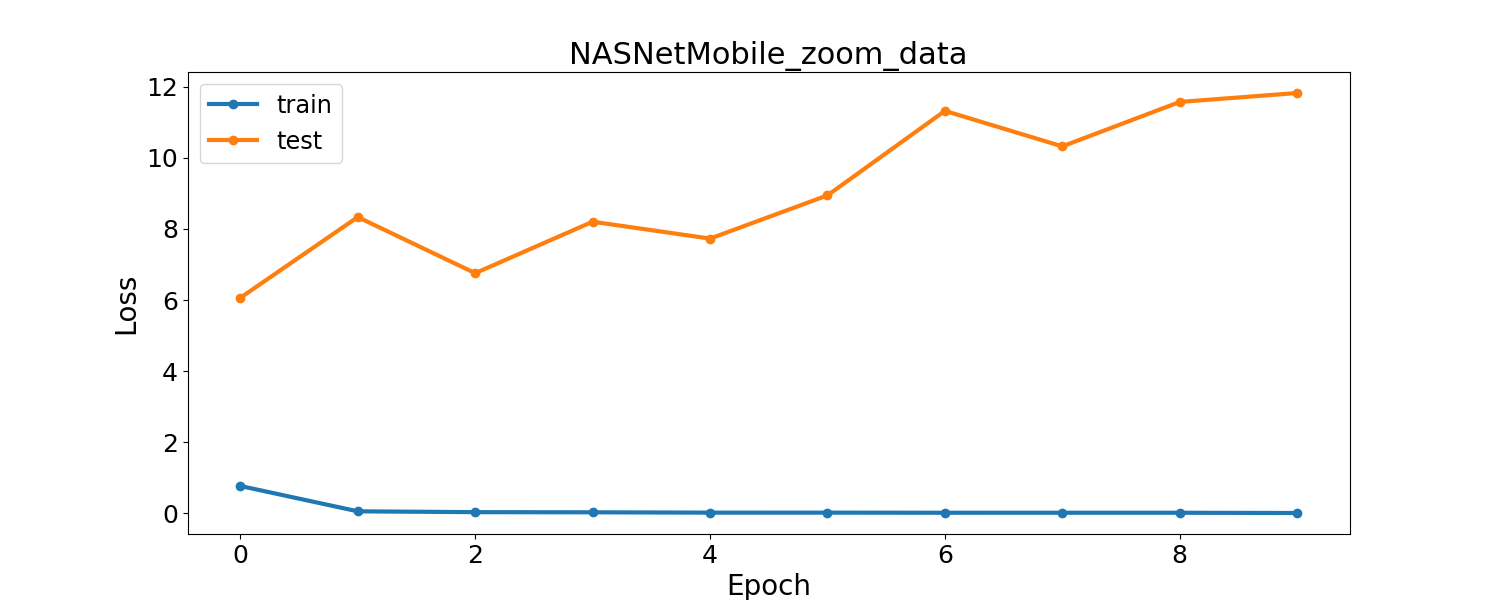
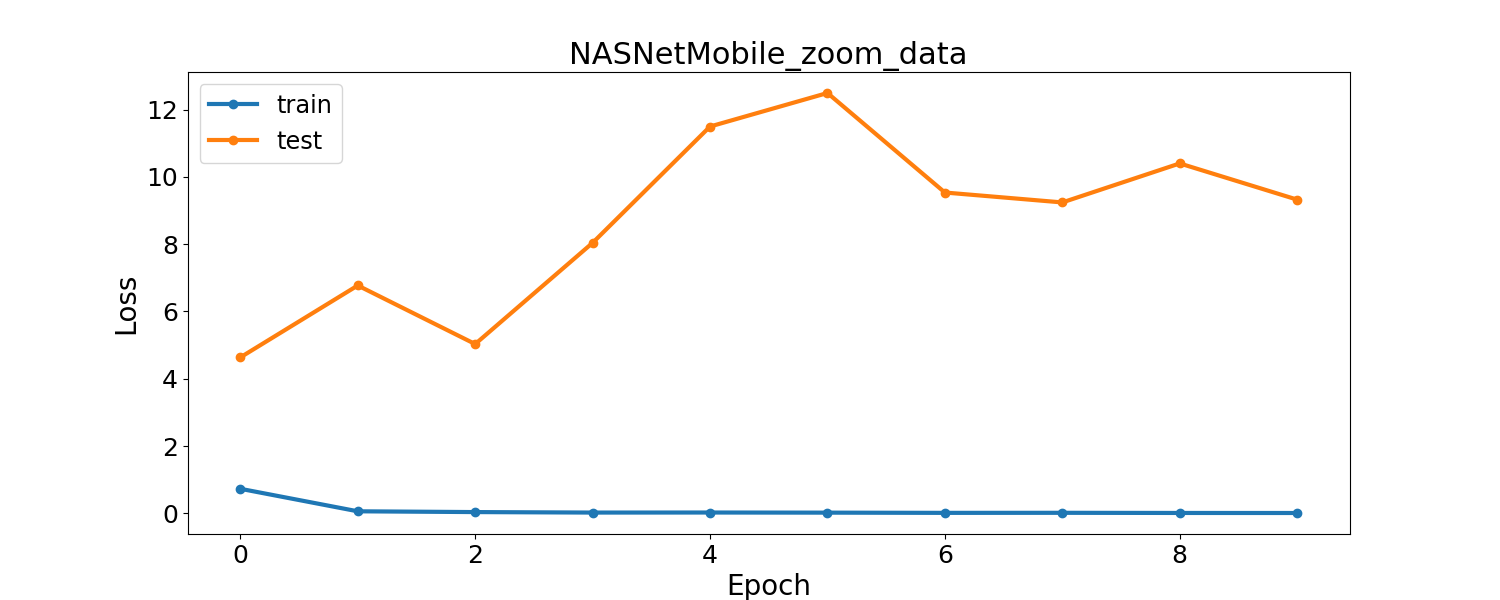
Update report

diff --git a/lab5/readme.md b/lab5/readme.md
@@ -104,8 +104,8 @@ num_epochs = 10
 
 |                 Model name                  | Test accuracy | Test loss | Train accuracy | Train loss | Time_train (s) |
 | :------------------------------------------ | :-----------: | :-------: | :------------: | :--------: | :------------: |
-| NASNetMobile                                |    0.3606     |   9.435   |     0.3812     |   9.0008   |   1682.9806    |
-| NASNetMobile_zoom_data                      |    0.2371     |  11.8239  |     0.266      |  11.4953   |   10204.6502   |
+| NASNetMobile                                |    0.2848     |   10.435  |     0.9809     |   0.0613   |   1682.9806    |
+| NASNetMobile_zoom_data                      |    0.3943     |  9.3234   |     0.9963      |  0.0125   |   10204.6502   |
 
 |                            Loss                             |
 | :---------------------------------------------------------- |
@@ -131,7 +131,7 @@ num_epochs = 10
 
 |                 Model name                  | Test accuracy | Test loss | Train accuracy | Train loss | Time_train (s) |
 | :------------------------------------------ | :-----------: | :-------: | :------------: | :--------: | :------------: |
-| base_NASNetMobile_with_classifier           |    0.0371     |  4.5505   |     0.0461     |   4.8162   |    234.5792    |
+| base_NASNetMobile_with_classifier           |    0.0371     |  4.5505   |     0.5516     |   1.5534   |    234.5792    |
 | base_NASNetMobile_with_classifier_zoom_data |    0.0071     |  16.0032  |     0.0233     |  15.7433   |    1807.578    |
 
 |                            Loss                                                  |
@@ -156,7 +156,7 @@ num_epochs = 10
 
 |                 Model name                  | Test accuracy | Test loss | Train accuracy | Train loss | Time_train (s) |
 | :------------------------------------------ | :-----------: | :-------: | :------------: | :--------: | :------------: |
-| NASNetMobile_with_classifier                |    0.4541     |  4.0931   |     0.5236     |   3.4453   |   1709.9733    |
+| NASNetMobile_with_classifier                |    0.0279     |  15.2123  |     0.9760     |   0.0872   |   1709.9733    |
 | NASNetMobile_with_classifier_zoom_data      |    0.0574     |  14.7554  |     0.0706     |  14.5958   |   10318.4132   |
 
 |                            Loss                                                  |
